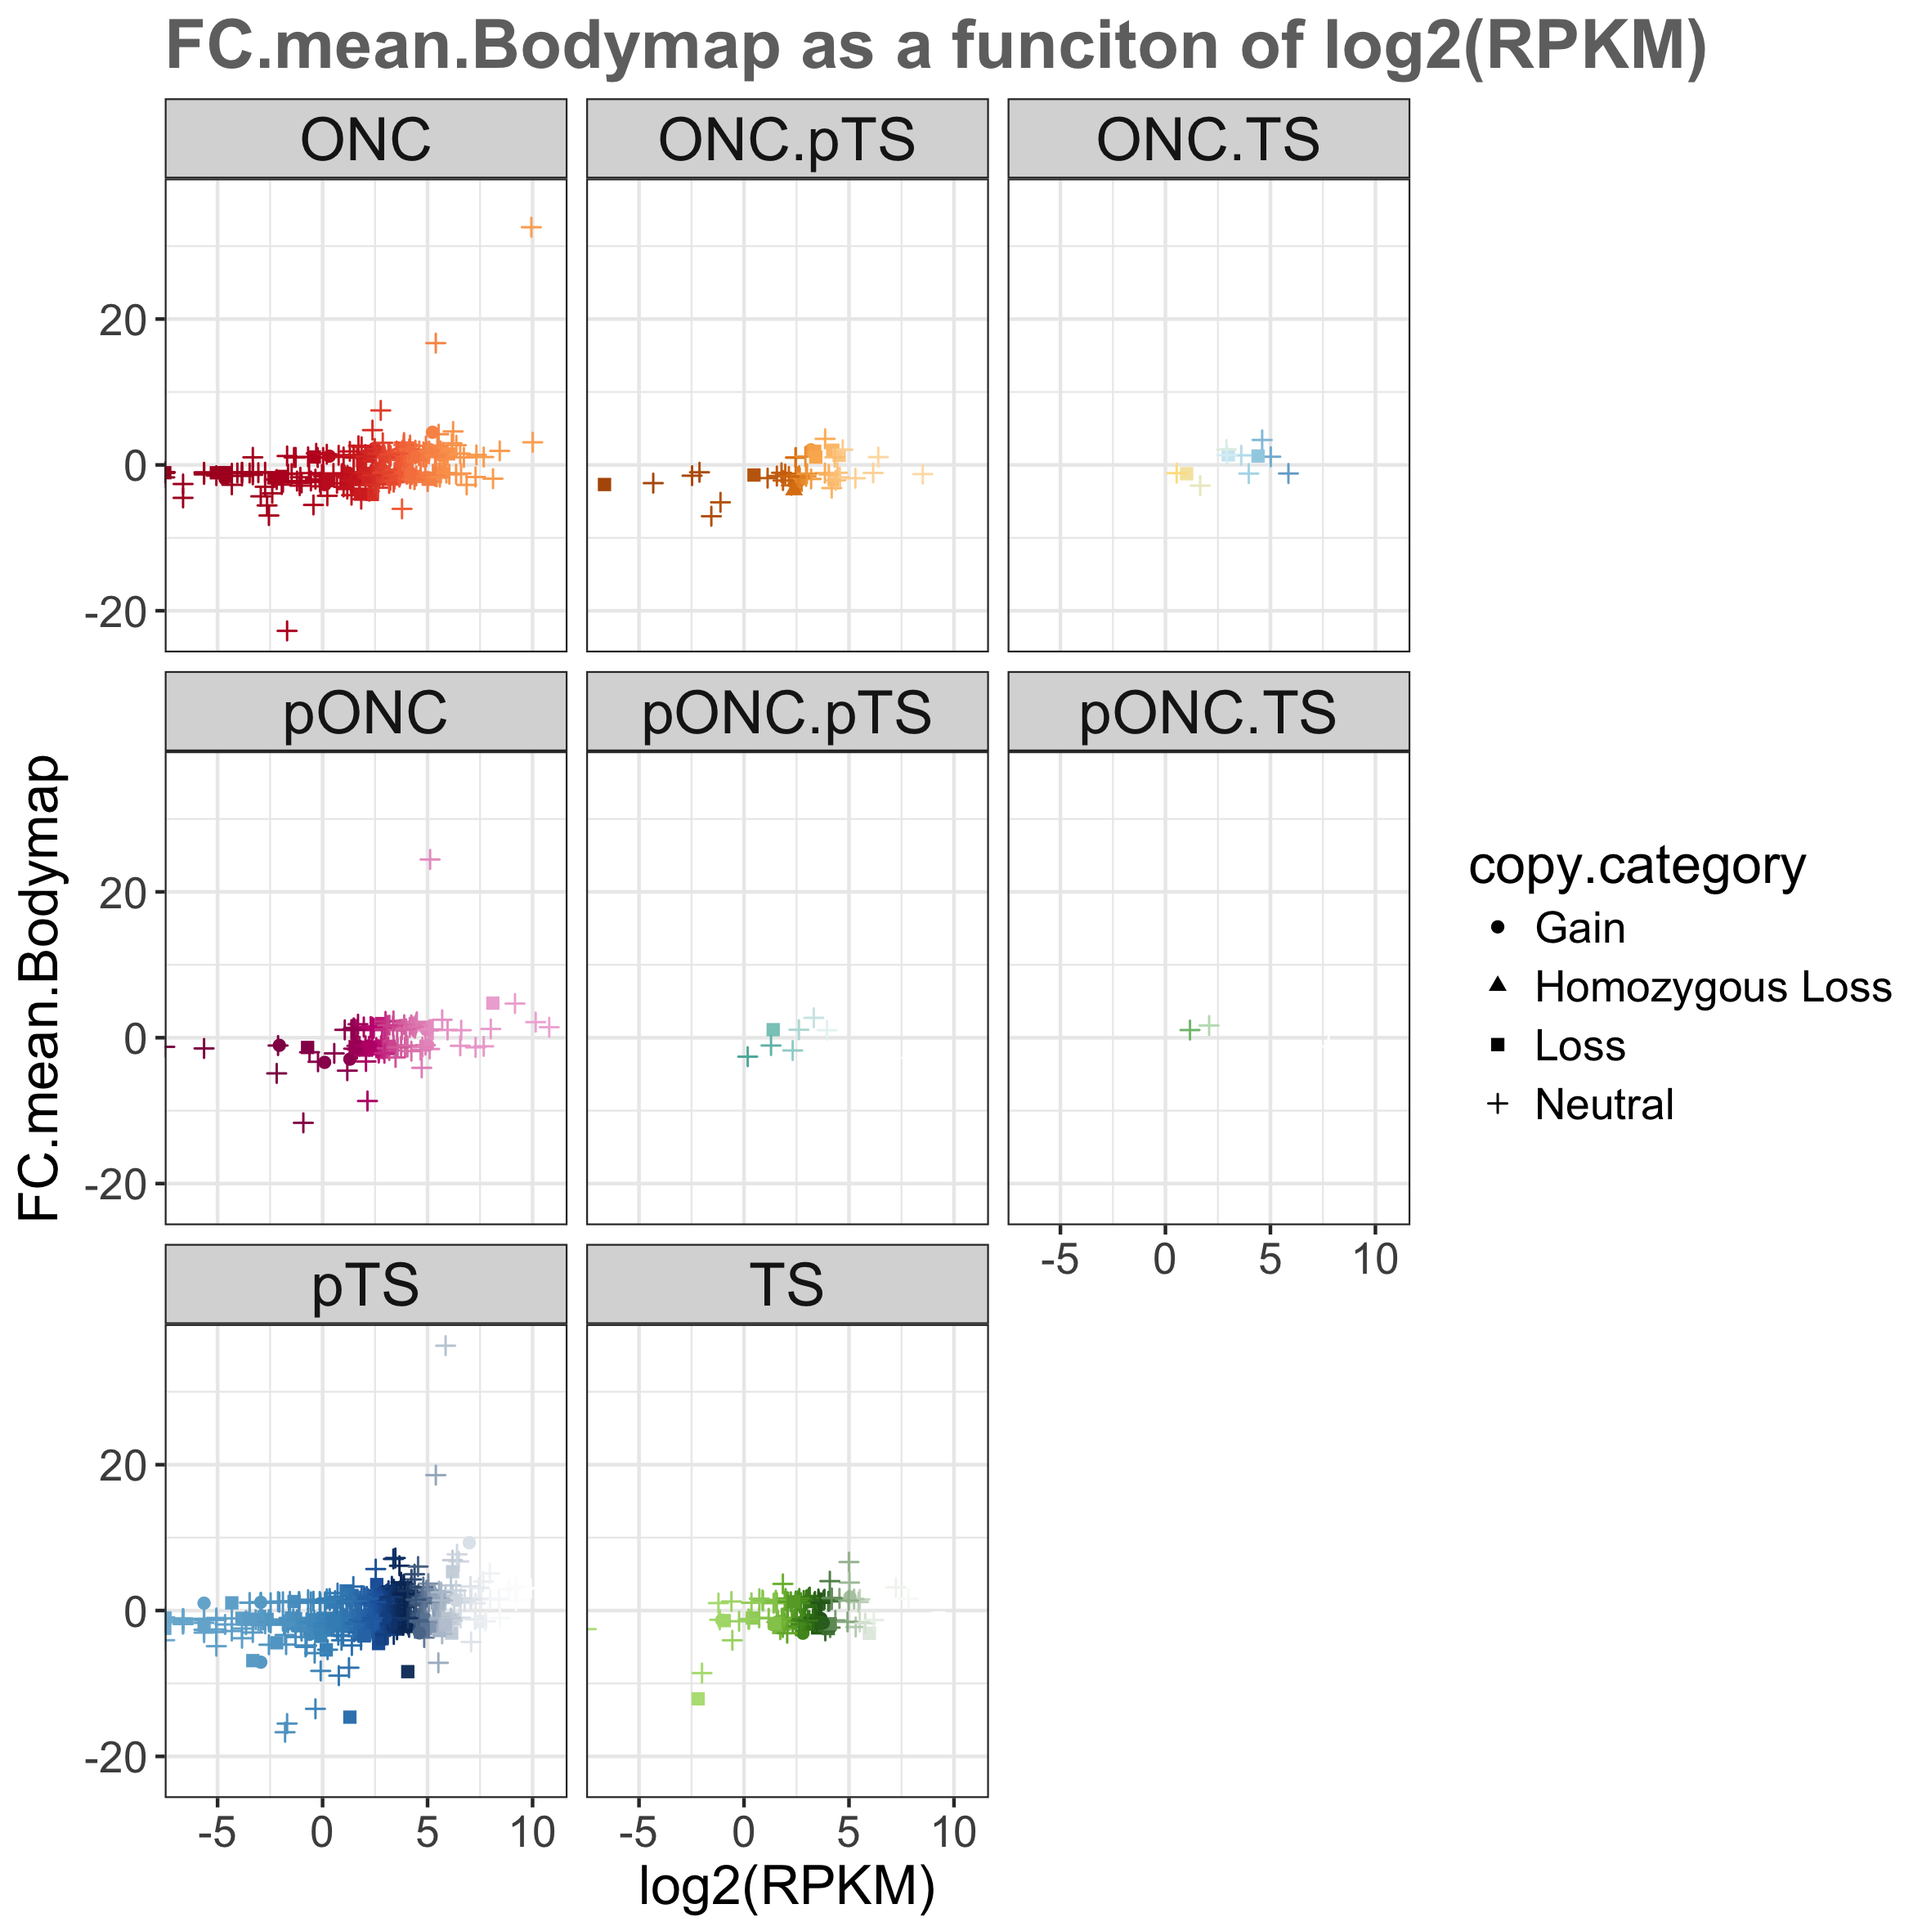
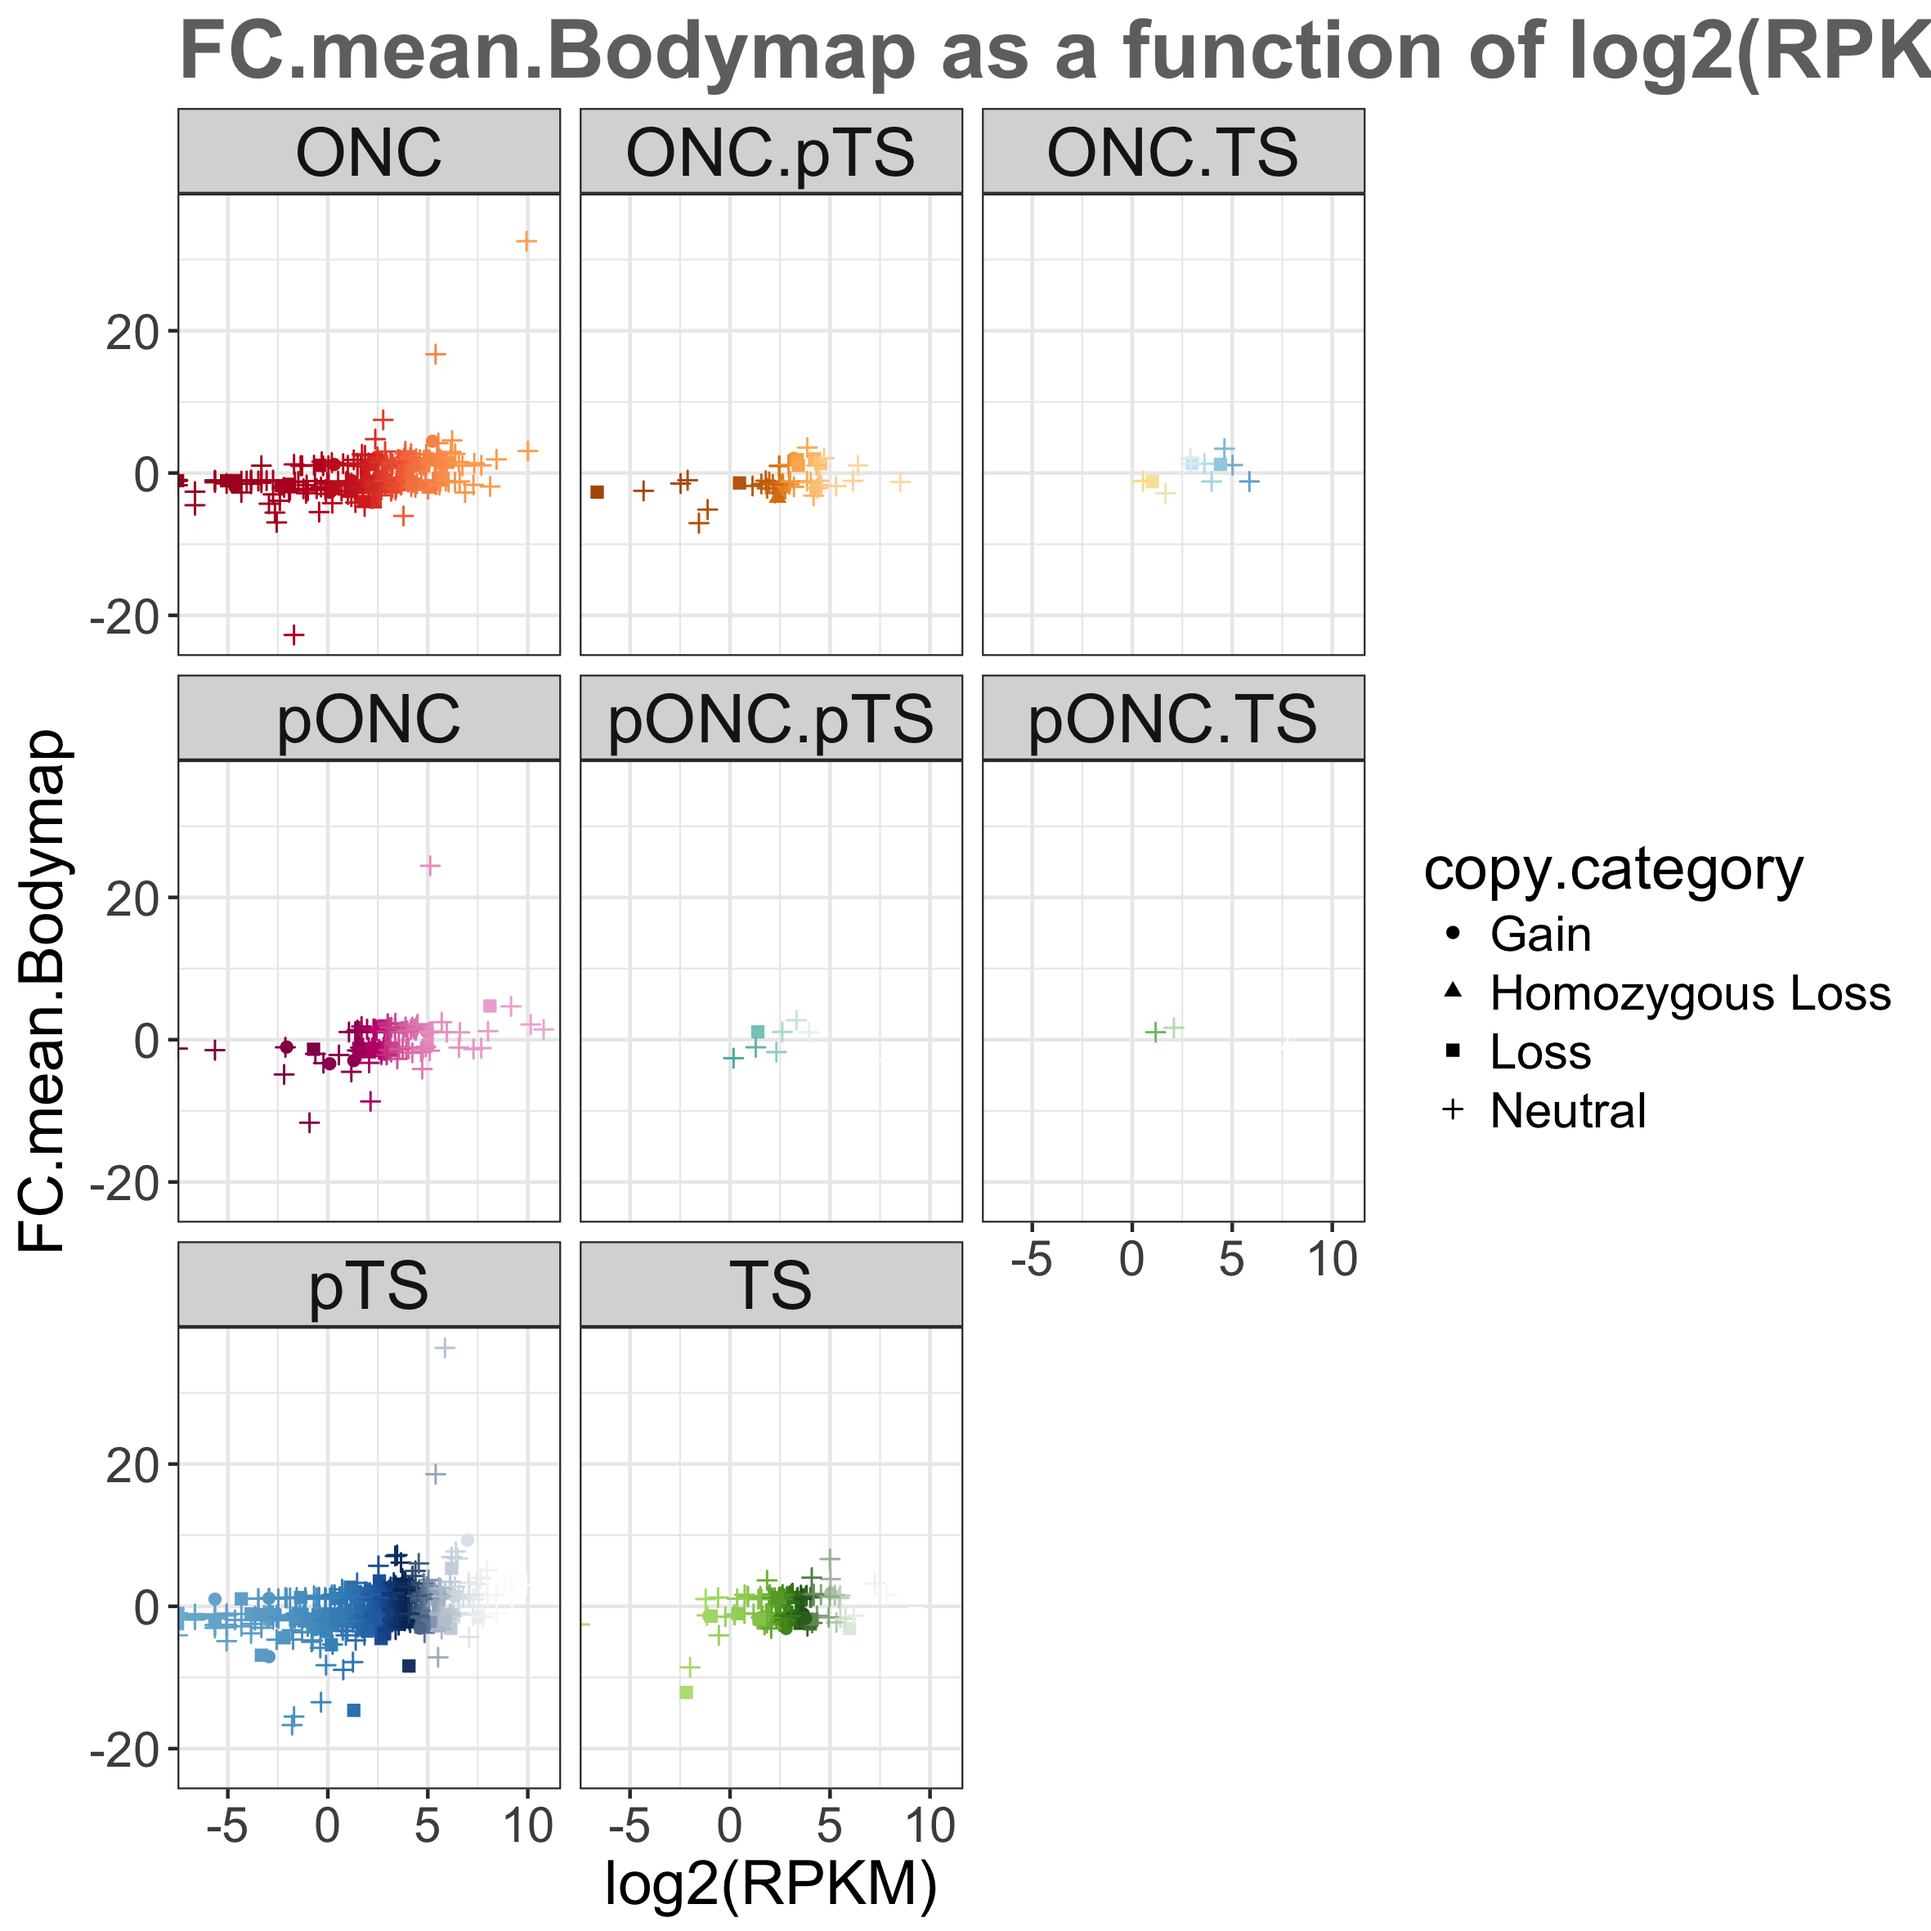
update

Changed region(s): [[0.0, 0.0, 1.0, 1.0]]

diff --git a/stat545-hw5-thibodeau-mylinh/stat545-hw05-thibodeau-mylinh.md b/stat545-hw5-thibodeau-mylinh/stat545-hw05-thibodeau-mylinh.md
@@ -699,11 +699,11 @@ d3.mean.percentile.by.type  %>% kable(format = "markdown", align="c")
 ``` r
 # cancer.gene.type factors in alphabetical order
 p3 <- d3.mean.percentile.by.type %>%
-  ggplot(aes(x=cancer.gene.type, y = mean.percentile.by.type)) +
+  ggplot(aes(x=cancer.gene.type, y = mean.percentile.by.type, colour=cancer.gene.type)) +
   ggtitle("Mean percentile for each cancer.gene.type factor")
-p3 + geom_point(aes(colour=cancer.gene.type), size=6) + theme(
+p3 + geom_point(size=6) + theme(
   plot.title= element_text(color = "grey44", size=24, face="bold"),
-  text = element_text(size=18), axis.text.x = element_text(angle=45, hjust=1))
+  text = element_text(size=16), axis.text.x = element_text(angle=45, hjust=1))
 ```
 
 ![](stat545-hw05-thibodeau-mylinh_files/figure-markdown_github-ascii_identifiers/unnamed-chunk-12-1.png)
@@ -711,11 +711,14 @@ p3 + geom_point(aes(colour=cancer.gene.type), size=6) + theme(
 ``` r
 # cancer.gene.type factors ordered according to the mean.percentile.by.type      
 p3 <- d3.mean.percentile.by.type %>%
-  ggplot(aes(x=fct_reorder(cancer.gene.type, mean.percentile.by.type), y = mean.percentile.by.type)) +
-  ggtitle("Ordered - Mean percentile for each cancer.gene.type factor")
-p3 + geom_point(aes(colour=cancer.gene.type), size=6) + theme(
+  ggplot(aes(x=fct_reorder(cancer.gene.type, mean.percentile.by.type), y = mean.percentile.by.type, colour = fct_reorder(cancer.gene.type, mean.percentile.by.type))) +
+  ggtitle("Ordered - Mean percentile for each cancer.gene.type factor") +
+  labs(x="cancer.gene.type ordered\nby mean.percentile.by.type")
+p3 + geom_point( size=6) + theme(
   plot.title= element_text(color = "grey44", size=24, face="bold"),
-  text = element_text(size=18), axis.text.x = element_text(angle=45, hjust=1))
+  text = element_text(size=16), axis.text.x = element_text(angle=45, hjust=1)) +
+  guides(colour=guide_legend(title="Ordered cancer.gene.type", 
+                             title.theme= element_text(angle=0, size=17, face="bold")))
 ```
 
 ![](stat545-hw05-thibodeau-mylinh_files/figure-markdown_github-ascii_identifiers/unnamed-chunk-12-2.png)
@@ -1150,14 +1153,14 @@ p5 <- d5 %>%
   filter(cancer.gene.type != "unknown") %>%
   group_by(cancer.gene.type) %>%
   ggplot(aes(x=log2(RPKM), y=FC.mean.Bodymap), na.rm=TRUE) +
-  ggtitle("FC.mean.Bodymap as a funciton of log2(RPKM)")
+  ggtitle("FC.mean.Bodymap as a function of log2(RPKM)")
 p5 + geom_point(aes(shape=copy.category)) +
   scale_size_continuous(range=c(1,40)) +
   facet_wrap(~cancer.gene.type) +
   aes(colour= hugo_color) + scale_colour_identity() +
   theme_bw() + theme(
-    plot.title= element_text(color = "grey44", size=20, face="bold"),
-    text = element_text(size =16),
+    plot.title= element_text(color = "grey44", size=24, face="bold"),
+    text = element_text(size =18),
     strip.text = element_text(size = rel(1.1))) 
 ```
 
@@ -1251,6 +1254,7 @@ Resources:
 -   use scale\_colour\_identity example [here](https://stackoverflow.com/questions/3079264/using-a-pre-defined-color-palette-in-ggplot)
 -   colour choices in ggplot [here](http://sape.inf.usi.ch/quick-reference/ggplot2/colour)
 -   add title in ggplot [here](http://www.sthda.com/english/wiki/ggplot2-title-main-axis-and-legend-titles)
+-   change labes on x-axis example [here](https://stackoverflow.com/questions/27418222/two-lines-of-x-axis-labels-in-ggplot)
 
 (5) Organise your github
 ========================

diff --git a/stat545-hw5-thibodeau-mylinh/README.md b/stat545-hw5-thibodeau-mylinh/README.md
@@ -51,4 +51,4 @@ Duplicated column names deduplicated: 'copy' => 'copy_1' [12], 'avg' => 'avg_1' 
 * You can have general information on a library by typing the format: library(help = "tidyverse")
 * It is better to use kable and knitr.table.format as rmarkdown with an output: github_document, because when I used html, it changed my formating ! Therefore, I will go back in all my previous documents to change this in order to avoid any additional formating issues. 
 * I explored some parameters of knitr::kable, but I am limited by the fact that html output does not look great on github, so I have to use the format markdown, which has limited options compared to html and latex. 
-
+* For some reason, the following text copied from the stat545 requirement caused problem with pandoc when I tried to have some html format and insert png image: "![Alt text](/path/to/img.png)"
